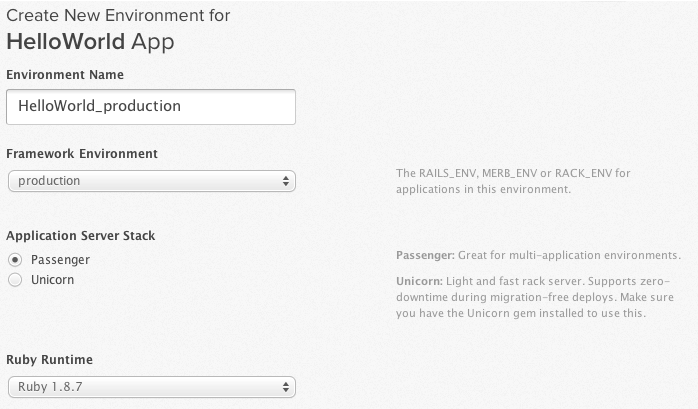
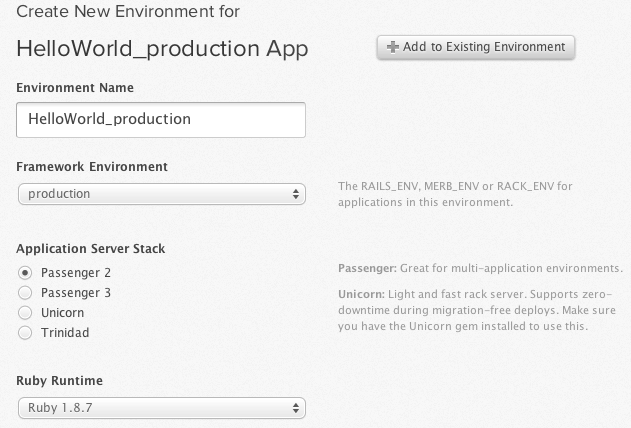
DOC-79 Passenger 3 goes GA

diff --git a/pages/using-rubinius-on-appcloud.md b/pages/using-rubinius-on-appcloud.md
@@ -6,22 +6,29 @@ Rubinius is currently in Beta support on Engine Yard AppCloud. This version of R
 
 ##Getting Started
 
-Each environment is associated with a specific version of the runtime that will be used to run all applications contained in that environment.
+Each environment is associated with a specific version of the runtime that is used to run all applications contained in that environment.
 
 ##Support
 
 Support for users of Rubinius is provided via the dedicated [[Rubinius forum|signup-rubinius]]. All AppCloud customers can access support for Rubinius via this forum until it is promoted from the [[Engine Yard Beta Program|beta_home]].
 
-###New Environment
+##To use Rubinius for a new environment
 
-  - Create a new environment using the **Create New Environment** link on the dashboard.
-  - Right now Rubinius works with **Passenger 3** so make sure to choose that as the web server. Passenger 3 is currently in beta as well so make sure to [[request access|signup-passenger3]] for it.
-  - In the Ruby Runtime section, pick **Rubinius**.
+1. Create a new environment using the Create New Environment link on the dashboard. 
 
-![Figure 1](images/rubinius_environment.jpg)
+2. Select Passenger 3 for the web server.  
+    Rubinius works only with Passenger 3.
+  
+3. In the Ruby Runtime section, select Rubinius.  
 
-###Existing Environment
+![Figure 1](images/rubinius_environment.png)
 
-  - To edit an existing environment, click **More Options** -> **Edit Environment** for the environment you wish to modify.![Figure 2](images/existing_environment.jpg)
-  - You can then use the same work-flow as above to pick **Rubinius** as your runtime.
-  - If you have existing applications running in the environment, the dashboard will prompt you to rebuild the environment, which will re-run chef recipes and update the runtime to use Rubinius.
+##To edit an existing environment to use Rubinius
+
+1. On the environment, click the More Options tab.  
+2. Click Edit Environment.  
+2. Select Passenger 3 for the web server.  
+	Rubinius works only with Passenger 3.
+
+3. In the Ruby Runtime section, select Rubinius.  
+    If you have existing applications running in the environment, the dashboard prompts you to rebuild the environment, which will re-run chef recipes and update the runtime to use Rubinius.

diff --git a/pages/appcloud_updates_august_2011.md b/pages/appcloud_updates_august_2011.md
@@ -1,0 +1,48 @@
+# AppCloud updates August 2011
+
+The updates described are either important (where you need to take action) or of interest (you might want to know about these changes but you don't need to do anything). 
+
+<a href=#update3><h2 id="update3"> <b>Major:</b> Passenger 3 is now generally available in AppCloud</h2></a>
+
+August 2nd, 2011
+
+Phusion Passenger 3 brings substantial performance improvements over Passenger 2. 
+For new environments, Passenger 3 is the default web stack server in AppCloud, replacing Passenger 2 as the default. 
+
+To edit an existing environment to use Passenger 3:
+1. Stop the environment.
+2. Click More Options > Edit Environment.
+3. Under Web Stack Server, choose Passenger 3.
+4. Update and boot the environment.
+
+<a href=#update2><h2 id="update2"> Minor: Context-sensitive help added to UI pages</h2></a>
+
+August 1st, 2011
+
+Context-sensitive help now appears on Application and Environment pages in the UI. 
+
+![Context-sensitive help closed and open](images/help_scnshot.png)
+
+<a href=#update1><h2 id="update1"> Fix: Database exec plugins </h2></a>
+
+August 1st, 2011
+
+Database exec plugins are now correctly configured on database instances (solo, db_slave, db_master). Previously, these were being configured on non-database instances. 
+
+
+
+
+[1]: #update1        "update1"
+[2]: #update2        "update2"
+[3]: #update3        "update3"
+[4]: #update4        "update4"
+[5]: #update5        "update5"
+[6]: #update6        "update6"
+[7]: #update7        "update7"
+[8]: #update8        "update8"
+[9]: #update9        "update9"
+[10]: #update10        "update10"
+[11]: #update11        "update11"
+[12]: #update12        "update12"
+[13]: #update13        "update13"
+[14]: #update14        "update14"

diff --git a/pages/appcloud_faq.md b/pages/appcloud_faq.md
@@ -52,6 +52,8 @@ Your slice environment likely came bundled with Mailtrust (now Rackspace) and if
 
 Domain Name System (DNS) services are not offered on EY AppCloud. If you are currently using Engine Yard's name servers you'll need to register with a DNS service provider and update your registrar to use that provider's name servers. Check with your registrar; they may also offer control of your DNS zone records.
 
+For more information, see [[How to set up AppCloud to work with your domain name.|ips-setup-dns]]
+
 <a href=#FAQ5><h2 id="FAQ5"> Can I have more than one IP address for my application? </h2></a>
 
 No. Amazon only allows us to attach a single IP address to any one instance. 
@@ -157,7 +159,9 @@ If you plan on using GitHub, the first option to automatically import your SVN r
 
 Each availability zone runs on its own physically distinct, independent infrastructure, and is engineered to be highly reliable. Common points of failures like generators and cooling equipment are not shared across availability zones, and availability zones are designed to be independent with failure modes like fires and flooding."
 
-Source: [[Feature Guide: Amazon EC2 Availability Zones|http://developer.amazonwebservices.com/connect/entry.jspa?externalID=1347&categoryID=174]]
+Source: Feature Guide, Amazon EC2 Availability Zones (developer.amazonwebservices.com)
+
+For information about setting availability zones in AppCloud, see [[Using multi-region on AppCloud|using-multi-region-with-engine-yard-appcloud]].
 
 <a href=#FAQ22><h2 id="FAQ22"> How do I change my Credit Card information? </h2></a>
 

diff --git a/pages/getting_started_home.md b/pages/getting_started_home.md
@@ -42,7 +42,7 @@ Second, we need to name this environment. By default we will choose a name of **
 
 Next, we need to know what application server you would like to use. We recommend Passenger for production environments.  Mongrel will not work with Rails applications newer than Rails 2.3.8.
 
-Finally, we need to configure the virtual host for this application in this environment. This should be the domain you intend to use for this application. If you are only adding one application to this environment, you can use the wildcard **_** (underscore) virtual host. 
+Finally, we need to configure the virtual host for this application in this environment. This should be the domain you intend to use for this application. If you are only adding one application to this environment, leave the Domain field blank (not set). 
 
 There are also a few advanced options. In most cases the defaults are fine.
 

diff --git a/pages/release_notes.md b/pages/release_notes.md
@@ -1,6 +1,14 @@
 # Release Notes
 <a href="http://feed43.com/1082485410203701.xml" class="rss">Release Notes RSS Feed</a>
 
+### [[August 2011|appcloud_updates_august_2011]]
+
+* [[<b>Major:</b> Passenger 3 is now generally available in AppCloud|appcloud_updates_august_2011#update3]]  *August 2nd, 2011*
+
+* [[Minor: Context-sensitive help added to UI pages|appcloud_updates_august_2011#update2]]  *August 1st, 2011*
+
+* [[Fix: Database exec plugins|appcloud_updates_august_2011#update1]]  *August 1st, 2011*
+
 ### [[July 2011|appcloud_updates_july_2011]]
 
 * [[Minor: Improved UI messaging for updates|appcloud_updates_july_2011#update6]]  *July 27th, 2011*

diff --git a/pages/TOC.md b/pages/TOC.md
@@ -92,7 +92,6 @@
   * [[Add Redis to your application|add-redis-to-your-application]]
 * [[Beta Program|beta-intro]]
   * [[Introduction|beta-intro]]
-  * [[Passenger 3|using-passenger-with-engine-yard-appcloud]]
   * [[Rubinius|rubinius]]
   * [[PostgreSQL|postgresql]]
   * [[JRuby/Trinidad|jruby-beta]]

diff --git a/pages/beta-intro.md b/pages/beta-intro.md
@@ -96,5 +96,4 @@ For each Beta feature there is the [[Beta Conversations|http://groups.google.com
 
 Current Beta feature:
 
-  * [[Passenger 3|using-passenger-with-engine-yard-appcloud]]
   * [[JRuby/Trinidad|jruby-beta]]
